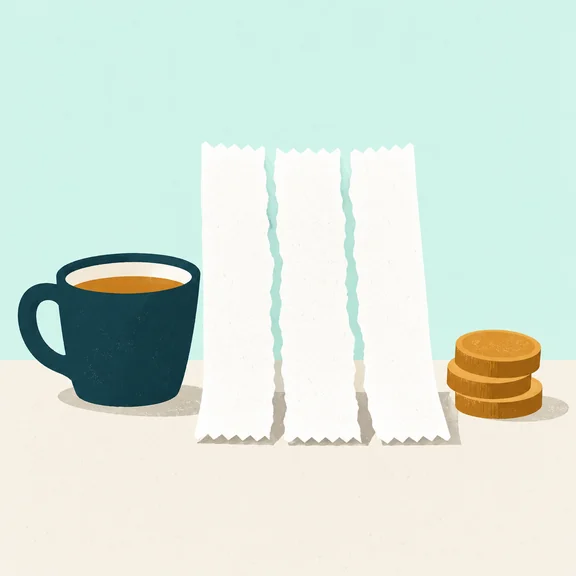
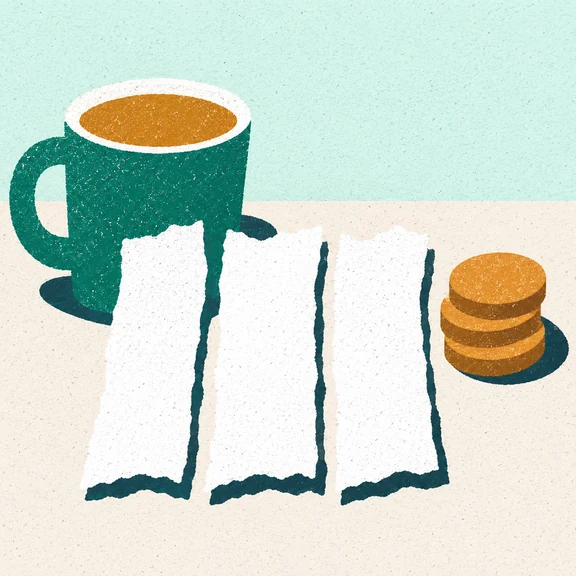
feat(lunas): perayaan setelah "Tandai lunas", plus create-hero dengan bayangan keras
Menandai lunas sebelumnya cuma toast. Sekarang ada momennya: stempel 6 frame
hasil generate (jatuh, menyentuh, menekan, lepas) mendarat di kartu, cincin
tinta menyebar 420 ms setelah cap menyentuh, lalu konfeti canvas 1,15 detik.

Tiga keputusan teknisnya:

- Turunnya stempel diatur CSS translateY ber-steps, bukan digambar di frame.
  Kalau posisi ikut digambar, tiap frame mendarat di titik berbeda dan capnya
  terlihat melayang.
- Konfeti di canvas, bukan frame gambar: 84 partikel dengan arah acak, nol byte
  aset, dan deterministik.
- `pointer-events: none` dan tutup sendiri dalam 1,75 detik, jadi ketukan
  berikutnya tidak pernah tertahan. Perayaan hanya muncul kalau server menerima
  aksinya — bukan saat gagal.

create-hero diganti versi yang bayangannya keras (satu bayangan offset per
benda, tanpa blur/gradien), sesuai hukum bayangan yang sama dengan stempel dan
koin. `box-shadow` di wadahnya dihapus: aset membawa bayangannya sendiri, dan
dua bayangan dengan arah berbeda di satu benda terbaca sebagai gambar salah
tempel.

tsc bersih, 30 uji lulus (bills, app, picks-instant) — overlay tidak menghalangi
ketukan di uji mana pun.

diff --git a/frontend/src/ds/celebration.tsx b/frontend/src/ds/celebration.tsx
@@ -1,0 +1,124 @@
+import { useEffect, useRef } from 'react'
+import stampFrames from '../assets/anim/stamp-paid.webp'
+import { buzz } from '../lib/haptics'
+
+/**
+ * Momen "lunas".
+ *
+ * Stempelnya 6 frame hasil generate: jatuh, menyentuh, menekan (squash), lalu
+ * lepas. Turunnya diatur CSS `translateY` dengan langkah yang sama, jadi
+ * mendaratnya lurus di satu titik — kalau posisi ikut digambar, tiap frame
+ * mendarat di tempat berbeda dan capnya terlihat melayang.
+ *
+ * Konfeti digambar di canvas, bukan frame gambar: butuh 80 partikel dengan arah
+ * acak, dan itu 0 byte aset serta deterministik. Semua gerak dimatikan kalau
+ * pengguna meminta gerak dikurangi.
+ */
+export function PaidCelebration({
+  open,
+  onDone,
+  judul = 'Lunas!',
+  keterangan,
+}: {
+  open: boolean
+  onDone: () => void
+  judul?: string
+  keterangan?: string
+}) {
+  const kanvasRef = useRef<HTMLCanvasElement | null>(null)
+  const selesaiRef = useRef(onDone)
+  selesaiRef.current = onDone
+
+  useEffect(() => {
+    if (!open) return
+    const kurangiGerak = window.matchMedia('(prefers-reduced-motion: reduce)').matches
+    if (kurangiGerak) {
+      const t = window.setTimeout(() => selesaiRef.current(), 1100)
+      return () => window.clearTimeout(t)
+    }
+
+    buzz(18)
+    const kanvas = kanvasRef.current
+    const ctx = kanvas?.getContext('2d') ?? null
+    let raf = 0
+    let mulai = 0
+    let bubar = 0
+    const warna = ['#087665', '#C98A2E', '#142F3A', '#E2F5EF']
+    const partikel = Array.from({ length: 84 }, () => {
+      const sudut = (-Math.PI * 0.85) + Math.random() * Math.PI * 0.7
+      const laju = 240 + Math.random() * 320
+      return {
+        x: 0,
+        y: 0,
+        vx: Math.cos(sudut) * laju,
+        vy: Math.sin(sudut) * laju,
+        putar: Math.random() * Math.PI,
+        putaran: (Math.random() - 0.5) * 12,
+        lebar: 3 + Math.random() * 4,
+        tinggi: 6 + Math.random() * 7,
+        warna: warna[Math.floor(Math.random() * warna.length)],
+      }
+    })
+
+    /** Konfeti mulai saat stempel mendarat (~380 ms), bukan saat kartu muncul. */
+    const mulaiKonfeti = () => {
+      if (!kanvas || !ctx) return
+      const dpr = Math.min(3, window.devicePixelRatio || 1)
+      const lebar = kanvas.clientWidth
+      const tinggi = kanvas.clientHeight
+      kanvas.width = Math.round(lebar * dpr)
+      kanvas.height = Math.round(tinggi * dpr)
+      ctx.setTransform(dpr, 0, 0, dpr, 0, 0)
+      mulai = performance.now()
+      const titikX = lebar / 2
+      const titikY = tinggi / 2 + 40
+
+      const gambar = (sekarang: number) => {
+        if (!mulai) mulai = sekarang
+        const t = (sekarang - mulai) / 1000
+        ctx.clearRect(0, 0, lebar, tinggi)
+        for (const p of partikel) {
+          const x = titikX + p.vx * t
+          const y = titikY + p.vy * t + 900 * t * t * 0.5
+          const alfa = Math.max(0, 1 - t / 1.15)
+          if (alfa <= 0) continue
+          ctx.save()
+          ctx.translate(x, y)
+          ctx.rotate(p.putar + p.putaran * t)
+          ctx.globalAlpha = alfa
+          ctx.fillStyle = p.warna
+          ctx.fillRect(-p.lebar / 2, -p.tinggi / 2, p.lebar, p.tinggi)
+          ctx.restore()
+        }
+        if (t < 1.2) raf = requestAnimationFrame(gambar)
+        else ctx.clearRect(0, 0, lebar, tinggi)
+      }
+      raf = requestAnimationFrame(gambar)
+    }
+
+    bubar = window.setTimeout(mulaiKonfeti, 360)
+    const tutup = window.setTimeout(() => selesaiRef.current(), 1750)
+    return () => {
+      window.clearTimeout(bubar)
+      window.clearTimeout(tutup)
+      cancelAnimationFrame(raf)
+    }
+  }, [open])
+
+  if (!open) return null
+
+  return (
+    <div className="ds-celebrate" role="status" aria-live="polite">
+      <div className="ds-celebrate-scrim" aria-hidden="true" />
+      <canvas ref={kanvasRef} className="ds-celebrate-confetti" aria-hidden="true" />
+      <div className="ds-celebrate-card">
+        <div className="ds-celebrate-art" aria-hidden="true">
+          <span className="ds-celebrate-stamp" style={{ backgroundImage: `url(${stampFrames})` }} />
+          <span className="ds-celebrate-ring" />
+        </div>
+        <b className="ds-celebrate-title">{judul}</b>
+        {keterangan ? <span className="ds-celebrate-note">{keterangan}</span> : null}
+      </div>
+    </div>
+  )
+}

diff --git a/frontend/src/app.css b/frontend/src/app.css
@@ -1609,3 +1609,111 @@ p, small, .app-note { text-wrap: pretty; }
   font-size: 11.5px;
   color: var(--ds-muted);
 }
+
+/* ---------- perayaan lunas ----------
+   Stempel 6 frame (jatuh, sentuh, tekan, lepas) diputar `steps(1)` dengan
+   keyframe tidak rata: 4 frame turun, 1 frame menekan, 1 frame lepas. Turunnya
+   sendiri diatur `translateY` ber-steps supaya mendarat di satu titik — kalau
+   posisi ikut digambar, tiap frame mendarat di tempat berbeda dan capnya
+   terlihat melayang. Cincin tinta dan konfeti menyusul setelah cap menyentuh. */
+.ds-celebrate {
+  position: fixed;
+  inset: 0;
+  z-index: 90;
+  display: grid;
+  place-items: center;
+  pointer-events: none;
+}
+.ds-celebrate-scrim {
+  position: absolute;
+  inset: 0;
+  background: rgba(20, 47, 58, .22);
+  animation: ds-fade-in .16s ease both;
+}
+.ds-celebrate-confetti {
+  position: absolute;
+  inset: 0;
+  width: 100%;
+  height: 100%;
+}
+.ds-celebrate-card {
+  position: relative;
+  width: 236px;
+  padding: 16px 18px 20px;
+  text-align: center;
+  background: var(--ds-surface);
+  border-radius: 22px;
+  box-shadow: var(--ds-shadow-raise);
+  animation: ds-celebrate-pop .28s cubic-bezier(.2, 1.1, .3, 1) both;
+}
+.ds-celebrate-art {
+  position: relative;
+  width: 112px;
+  height: 130px;
+  margin: 0 auto 4px;
+}
+.ds-celebrate-stamp {
+  position: absolute;
+  inset: 0;
+  background-repeat: no-repeat;
+  background-position: 0 0;
+  background-size: 600% 100%;
+  animation:
+    ds-stamp-frames 640ms steps(1) both,
+    ds-stamp-fall 640ms steps(6, end) both;
+  will-change: transform, background-position;
+}
+/* 6 sel, tiap sel 112 px di layar */
+@keyframes ds-stamp-frames {
+  0% { background-position: 0 0; }
+  20% { background-position: -112px 0; }
+  40% { background-position: -224px 0; }
+  60% { background-position: -336px 0; }
+  80% { background-position: -448px 0; }
+  100% { background-position: -560px 0; }
+}
+@keyframes ds-stamp-fall {
+  from { transform: translateY(-58px); }
+  to { transform: translateY(0); }
+}
+.ds-celebrate-ring {
+  position: absolute;
+  left: 50%;
+  bottom: 18px;
+  width: 84px;
+  height: 84px;
+  margin-left: -42px;
+  border: 7px solid rgba(8, 118, 101, .85);
+  border-radius: 50%;
+  opacity: 0;
+  animation: ds-ring 420ms cubic-bezier(.2, .9, .3, 1) 420ms both;
+}
+@keyframes ds-ring {
+  0% { transform: scale(.35); opacity: .85; }
+  100% { transform: scale(1.5); opacity: 0; }
+}
+.ds-celebrate-title {
+  display: block;
+  font-family: var(--ds-font-display);
+  font-size: 20px;
+  color: var(--ds-ink);
+}
+.ds-celebrate-note {
+  display: block;
+  margin-top: 2px;
+  font-size: 13px;
+  color: var(--ds-muted);
+}
+@keyframes ds-celebrate-pop {
+  from { transform: scale(.92); opacity: 0; }
+  to { transform: scale(1); opacity: 1; }
+}
+@keyframes ds-fade-in {
+  from { opacity: 0; }
+  to { opacity: 1; }
+}
+@media (prefers-reduced-motion: reduce) {
+  .ds-celebrate-scrim, .ds-celebrate-card { animation: none; }
+  .ds-celebrate-stamp { animation: none; background-position: 0 0; }
+  .ds-celebrate-ring, .ds-celebrate-confetti { display: none; }
+}

diff --git a/frontend/src/screens/BillDetail.tsx b/frontend/src/screens/BillDetail.tsx
@@ -8,6 +8,7 @@ import { api, endpoints, isSessionError } from '../lib/api'
 import { startIdentity } from '../lib/identity'
 import { formatRp } from '../lib/money'
 import { buzz } from '../lib/haptics'
+import { PaidCelebration } from '../ds/celebration'
 import { shareLink } from '../lib/share'
 import { AppShell } from '../components/AppShell'
 import { useToast } from '../components/Toast'
@@ -166,7 +167,10 @@ export function BillDetail({ billId, identityId }: { billId: string; identityId:
         label: 'Tandai lunas · ' + formatRp(me!.total_idr),
         onClick: () => {
           buzz(20)
-          void run(billActions.markPaid(billId, me!.identity_id), 'Ditandai lunas')
+          // perayaan hanya kalau server benar-benar menerima — bukan saat gagal
+          void run(billActions.markPaid(billId, me!.identity_id), 'Ditandai lunas').then(
+            (berhasil) => berhasil && setLunasPesta(true),
+          )
         },
       }
     }
@@ -180,6 +184,8 @@ export function BillDetail({ billId, identityId }: { billId: string; identityId:
     : []
 
   const [photoBusy, setPhotoBusy] = useState(false)
+  /** Perayaan setelah "Tandai lunas" diterima server. */
+  const [lunasPesta, setLunasPesta] = useState(false)
   const [nameOpen, setNameOpen] = useState(false)
   const [joinName, setJoinName] = useState('')
   const [joinBusy, setJoinBusy] = useState(false)
@@ -202,12 +208,17 @@ export function BillDetail({ billId, identityId }: { billId: string; identityId:
     }
   }
 
-  async function run(todo: { path: string; method?: 'POST' | 'PUT' | 'DELETE'; body?: unknown }, message: string) {
+  async function run(
+    todo: { path: string; method?: 'POST' | 'PUT' | 'DELETE'; body?: unknown },
+    message: string,
+  ): Promise<boolean> {
     try {
       await action.mutateAsync(todo)
       toast(message)
+      return true
     } catch (err) {
       toast((err as Error).message)
+      return false
     }
   }
 
@@ -1240,6 +1251,11 @@ export function BillDetail({ billId, identityId }: { billId: string; identityId:
           </>
         ) : null}
       </Sheet>
+      <PaidCelebration
+        open={lunasPesta}
+        onDone={() => setLunasPesta(false)}
+        keterangan={me ? formatRp(me.total_idr) + ' sudah tercatat lunas' : undefined}
+      />
     </AppShell>
   )
 }

diff --git a/frontend/src/design-system.css b/frontend/src/design-system.css
@@ -808,7 +808,10 @@
 .create-hero .create-copy { flex: 1; min-width: 0; }
 .create-hero h1 { margin: 0 0 6px; font: var(--ds-weight-strong) var(--ds-text-2xl)/1.12 var(--ds-font-display); letter-spacing: -.045em; }
 .create-hero p { margin: 0; color: var(--ds-muted); font: var(--ds-weight-regular) var(--ds-text-sm)/1.5 var(--ds-font-body); }
-.create-hero img { flex: none; width: 120px; height: 120px; object-fit: cover; border-radius: 18px; margin-top: 0; box-shadow: var(--ds-shadow-content); }
+/* Aset membawa bayangannya sendiri (satu bayangan keras di dalam gambar), jadi
+   wadahnya tidak menambah box-shadow lembut: dua bayangan dengan arah dan
+   kelembutan berbeda di satu benda terbaca sebagai gambar yang salah tempel. */
+.create-hero img { flex: none; width: 120px; height: 120px; object-fit: cover; border-radius: 18px; margin-top: 0; }
 .ds-empty b { font: var(--ds-weight-strong) var(--ds-text-base)/1.3 var(--ds-font-body); }
 .ds-empty p { margin: 0; max-width: 270px; color: var(--ds-muted); font: var(--ds-weight-regular) var(--ds-text-sm)/1.5 var(--ds-font-body); }
 

diff --git a/docs/PLAN-ASET-ANIMASI.md b/docs/PLAN-ASET-ANIMASI.md
@@ -124,6 +124,27 @@ antar frame. Di ukuran tampil 47 px itu tidak terlihat; di 112 px pun masih
 terbaca sebagai satu koin. Yang membuat geraknya halus ternyata **jumlah fase
 dan posisi yang presisi**, bukan kesamaan sempurna antar frame.
 
+## 2c. Perayaan lunas (dikerjakan)
+
+- `anim/stamp-paid.webp`: **6 frame** stempel hasil generate (jatuh, menyentuh,
+  menekan/squash, lepas), 1344x260, 116 KB. Diputar `steps(1)` dengan keyframe
+  tidak rata; turunnya diatur `translateY` ber-steps karena kalau posisi ikut
+  digambar, tiap frame mendarat di titik berbeda dan capnya terlihat melayang.
+- Cincin tinta: CSS, menyusul 420 ms setelah cap menyentuh.
+- Konfeti: **canvas**, 84 partikel, 1,15 detik, nol byte aset.
+- Total di bawah 1,8 detik, `pointer-events: none` supaya bisa terus diketuk, dan
+  seluruh gerak dimatikan saat `prefers-reduced-motion`.
+- Muncul **hanya kalau server menerima** aksi (bukan saat gagal), sekali per aksi.
+
+## 2d. `create-hero` v2 (dikerjakan)
+
+Versi baru digenerate dengan instruksi tegas: **satu bayangan keras per benda,
+tepi tajam, tanpa blur/gradien**. Diperiksa visual: mug, tiga strip struk, dan
+tumpukan koin semuanya berbayangan keras satu warna, tanpa gradien. 576 px,
+63 KB (dari 10 KB — versi lama bayangannya lembut dan melanggar kontrak).
+
+`box-shadow` di `.create-hero img` dihapus: aset membawa bayangannya sendiri.
+
 ## 3. Soal "frame per frame" dari Codex
 
 Perlu dijelaskan sebelum dikerjakan, karena ini menentukan bentuk asetnya:
@@ -241,11 +262,11 @@ gradient"**. Bagian subjek/komposisi yang berubah saja.
 
 ## 6. Urutan kerja
 
-1. **Fase 1 — satu bahasa bayangan (tanpa aset baru).** Koin: bayangan CSS
-   keras. Hapus `box-shadow` dari semua `<img>` aset. Putuskan dua aset mati.
-   Ukur ulang dengan tangkapan layar tiga fase.
-2. **Fase 2 — perayaan lunas.** Stempel + cincin + konfeti canvas, plus
-   `prefers-reduced-motion` mematikannya total.
+1. ~~**Fase 1 — satu bahasa bayangan.**~~ **Selesai**: bayangan koin jadi keras
+   satu warna, `box-shadow` di `.create-hero img` dihapus. Sisa: dua aset mati
+   (`empty-bill.webp`, `recap.webp`) belum diputuskan.
+2. ~~**Fase 2 — perayaan lunas.**~~ **Selesai**: stempel 6 frame + cincin +
+   konfeti canvas, `prefers-reduced-motion` mematikannya total.
 3. **Fase 3 — keadaan membaca di Buat tagihan** (garis sapu → skeleton angka →
    hasil) dan indikator unggah.
 4. **Fase 4 — aset baru dari Codex** (`create-hero` v2, opsional struk
